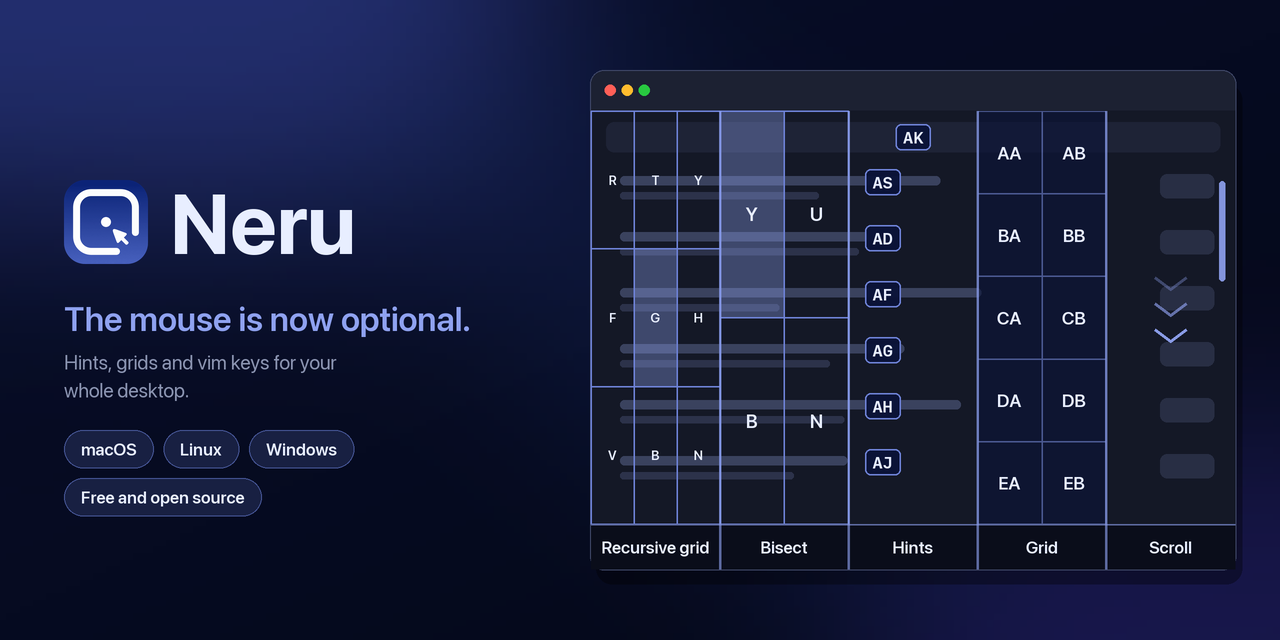
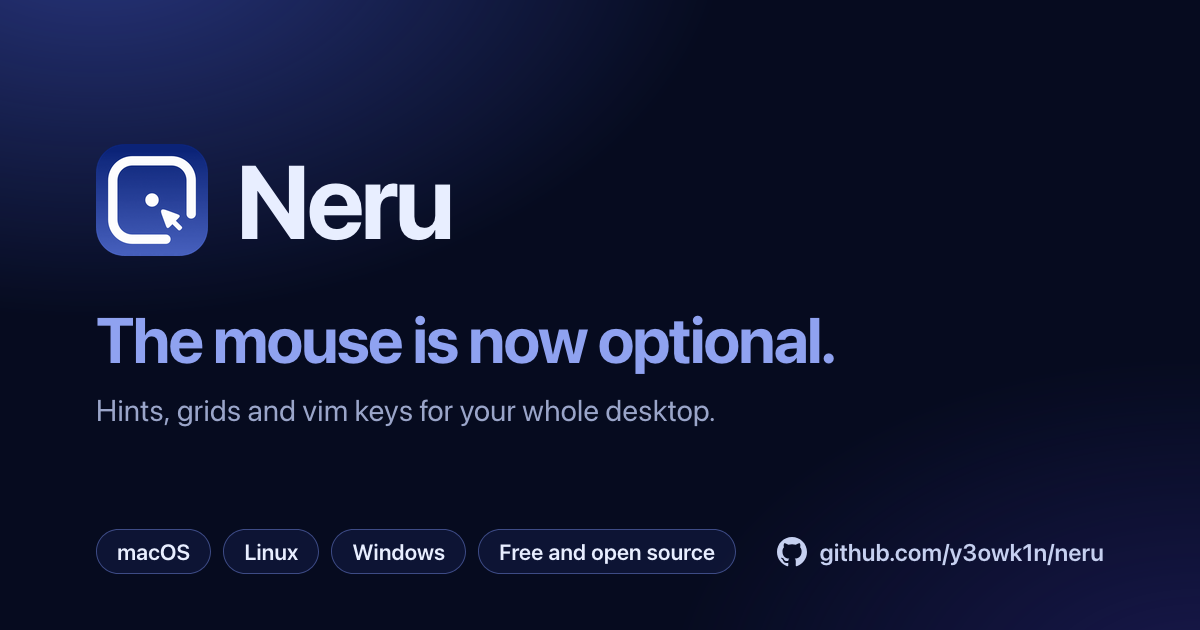
docs(website): use a cleaner social preview card (#1724)

diff --git a/website/scripts/og-card.html b/website/scripts/og-card.html
@@ -1,0 +1,117 @@
+<!doctype html>
+<!-- The social preview card. Regenerate public/og.png with a 1200x630 browser
+     screenshot, run from website/, for example with headless Firefox:
+     firefox --headless --window-size=1200,630 --screenshot public/og.png file://$PWD/scripts/og-card.html -->
+<html lang="en">
+  <head>
+    <meta charset="utf-8" />
+    <style>
+      html,
+      body {
+        margin: 0;
+        width: 1200px;
+        height: 630px;
+        overflow: hidden;
+      }
+      body {
+        position: relative;
+        display: flex;
+        flex-direction: column;
+        justify-content: center;
+        padding: 0 96px 64px;
+        box-sizing: border-box;
+        font-family: -apple-system, BlinkMacSystemFont, 'SF Pro Display', system-ui, sans-serif;
+        color: #e8eeff;
+        background:
+          radial-gradient(900px 560px at 8% -12%, rgb(42 56 132 / 0.95), transparent 70%),
+          radial-gradient(760px 480px at 100% 110%, rgb(32 30 96 / 0.7), transparent 70%),
+          #060b1f;
+        -webkit-font-smoothing: antialiased;
+      }
+      .brand {
+        display: flex;
+        align-items: center;
+        gap: 28px;
+      }
+      .brand img {
+        width: 112px;
+        height: 112px;
+        border-radius: 26px;
+      }
+      .brand span {
+        font-size: 104px;
+        font-weight: 700;
+        letter-spacing: -0.035em;
+      }
+      h1 {
+        margin: 44px 0 0;
+        font-size: 64px;
+        line-height: 1.05;
+        font-weight: 700;
+        letter-spacing: -0.03em;
+        color: #8fa2f0;
+      }
+      p {
+        margin: 18px 0 0;
+        font-size: 30px;
+        color: #9aa5c9;
+      }
+      /* The bottom row lists the platforms Neru runs on and links its source. */
+      .foot {
+        position: absolute;
+        left: 96px;
+        right: 96px;
+        bottom: 56px;
+        display: flex;
+        align-items: center;
+        justify-content: space-between;
+      }
+      .chips {
+        display: flex;
+        gap: 12px;
+      }
+      .chips span {
+        padding: 8px 20px;
+        border: 1.5px solid rgb(110 130 214 / 0.5);
+        border-radius: 999px;
+        background: rgb(20 30 70 / 0.55);
+        font-size: 22px;
+        font-weight: 600;
+      }
+      .repo {
+        display: flex;
+        align-items: center;
+        gap: 12px;
+        font-size: 24px;
+        font-weight: 600;
+        color: #c6d0f0;
+      }
+      .repo svg {
+        width: 30px;
+        height: 30px;
+        fill: currentColor;
+      }
+    </style>
+  </head>
+  <body>
+    <div class="brand">
+      <img src="../src/assets/neru-appicon.png" alt="" />
+      <span>Neru</span>
+    </div>
+    <h1>The mouse is now optional.</h1>
+    <p>Hints, grids and vim keys for your whole desktop.</p>
+
+    <div class="foot">
+      <div class="chips">
+        <span>macOS</span>
+        <span>Linux</span>
+        <span>Windows</span>
+        <span>Free and open source</span>
+      </div>
+      <div class="repo">
+        <svg viewBox="0 0 16 16" aria-hidden="true"><path d="M8 0C3.58 0 0 3.58 0 8c0 3.54 2.29 6.53 5.47 7.59.4.07.55-.17.55-.38 0-.19-.01-.82-.01-1.49-2.01.37-2.53-.49-2.69-.94-.09-.23-.48-.94-.82-1.13-.28-.15-.68-.52-.01-.53.63-.01 1.08.58 1.23.82.72 1.21 1.87.87 2.33.66.07-.52.28-.87.51-1.07-1.78-.2-3.64-.89-3.64-3.95 0-.87.31-1.59.82-2.15-.08-.2-.36-1.02.08-2.12 0 0 .67-.21 2.2.82.64-.18 1.32-.27 2-.27.68 0 1.36.09 2 .27 1.53-1.04 2.2-.82 2.2-.82.44 1.1.16 1.92.08 2.12.51.56.82 1.27.82 2.15 0 3.07-1.87 3.75-3.65 3.95.29.25.54.73.54 1.48 0 1.07-.01 1.93-.01 2.2 0 .21.15.46.55.38A8.013 8.013 0 0016 8c0-4.42-3.58-8-8-8z"/></svg>
+        github.com/y3owk1n/neru
+      </div>
+    </div>
+  </body>
+</html>
